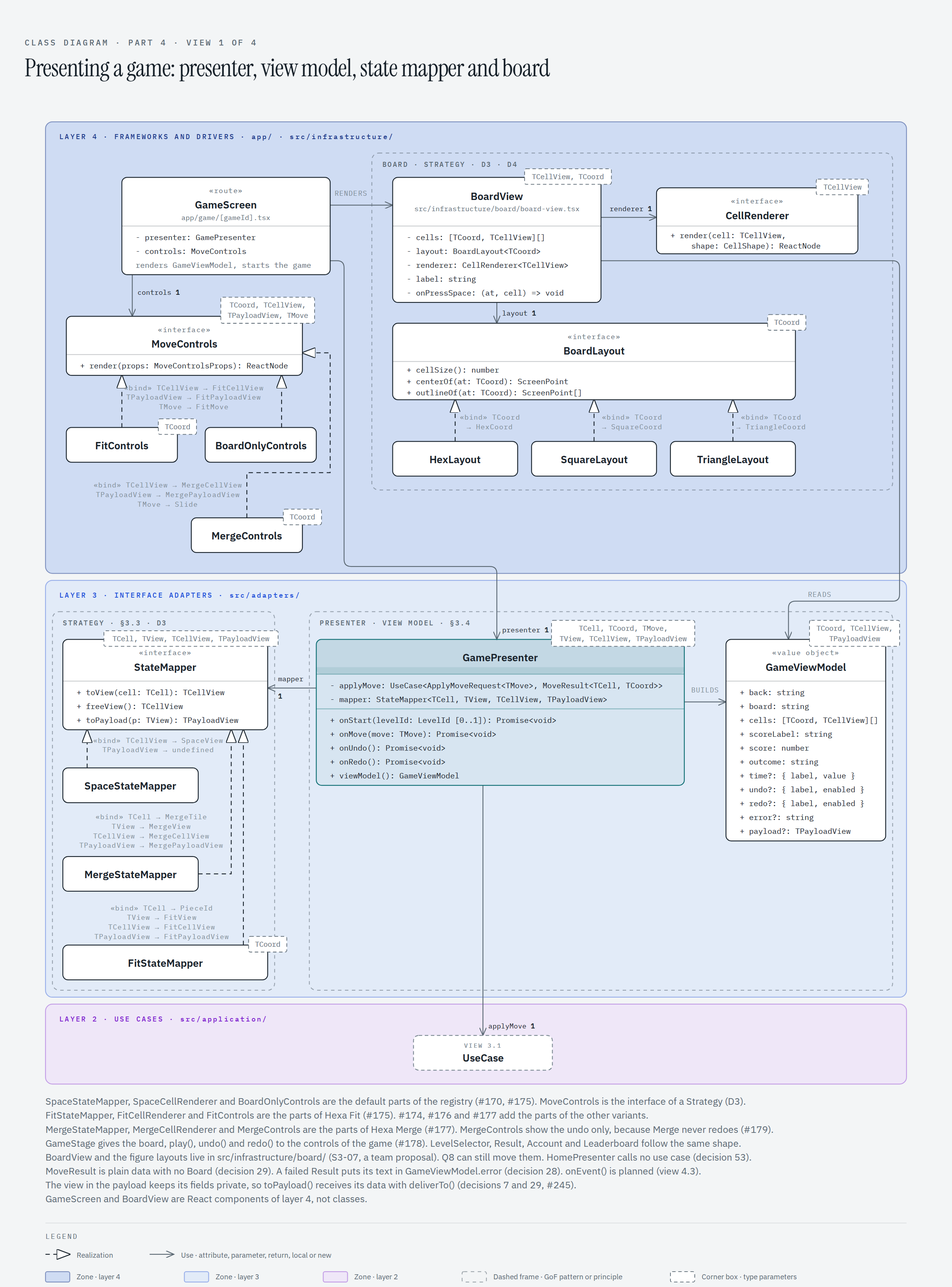
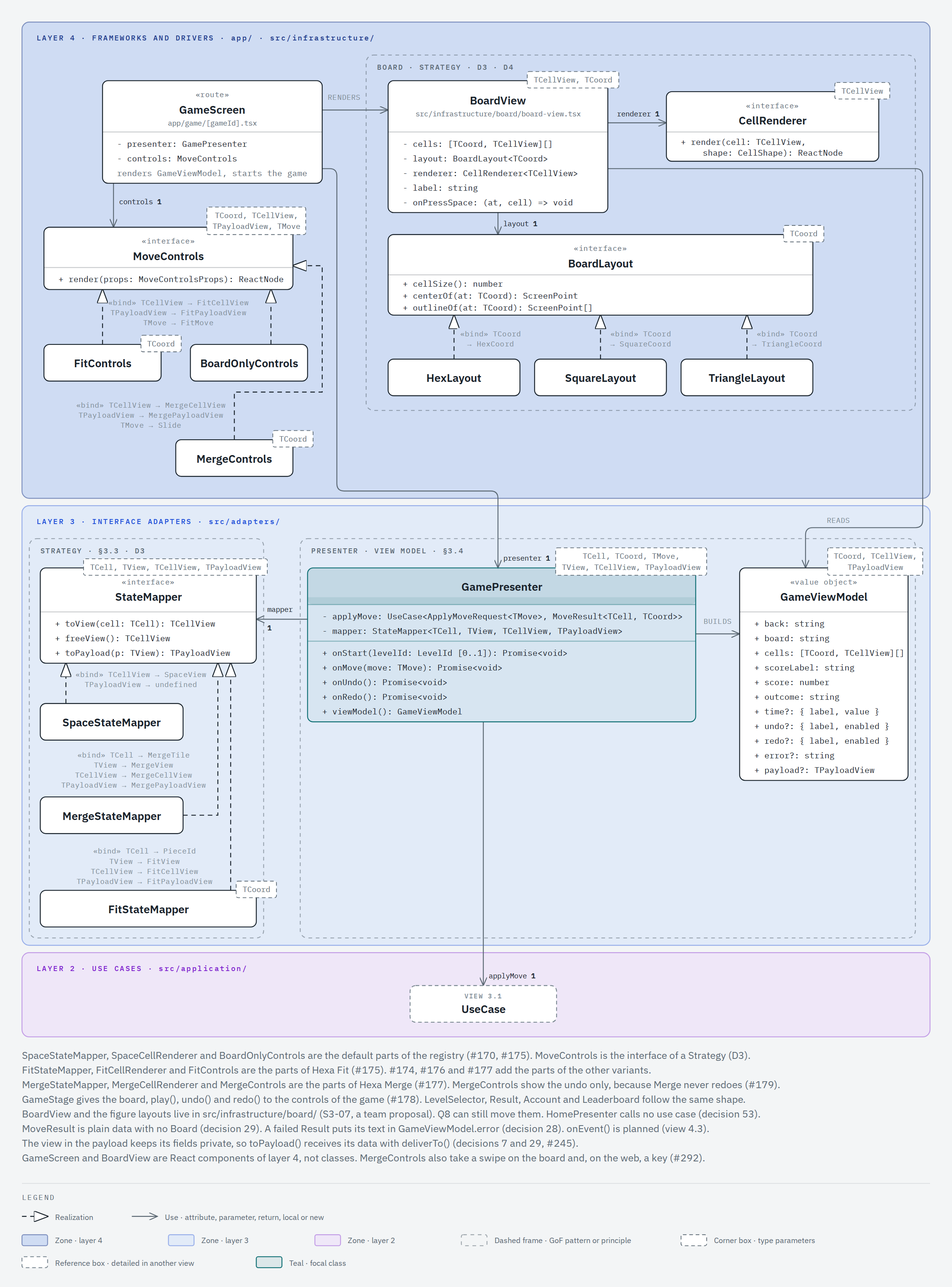
docs(architecture): record the swipe and keys of Merge
Decision 14, view 4.1 and its PNG, the infrastructure README, the AI
usage row and the changelog line.

Refs #292

diff --git a/docs/architecture/classes/views/ad-1-presenter.html b/docs/architecture/classes/views/ad-1-presenter.html
@@ -84,7 +84,8 @@
           MergeStateMapper and MergeControls, the parts of Hexa Merge, implement the same two
           strategies. GamePresenter also undoes and redoes a move through the UseCase port, and
           GameViewModel holds the undo and the redo of a variant with undo, which FitControls show
-          as two buttons. MergeControls show the undo only, because Merge never redoes.
+          as two buttons. MergeControls show the undo only, because Merge never redoes. Since #292
+          MergeControls also play a slide with a swipe on the board and, on the web, with a key.
         </desc>
         <defs>
           <marker
@@ -1757,7 +1758,8 @@
           font-size="11"
           font-family="'IBM Plex Sans', sans-serif"
         >
-          GameScreen and BoardView are React components of layer 4, not classes.
+          GameScreen and BoardView are React components of layer 4, not classes. MergeControls also
+          take a swipe on the board and, on the web, a key (#292).
         </text>
 
         <!-- Legend -->

diff --git a/docs/architecture/classes.md b/docs/architecture/classes.md
@@ -255,7 +255,7 @@ Decisions 41 to 49 planned the units of the domain redesign, and each one names 
 11. **`AccountGateway` (proposal).** `Register` and `Login` call the backend through this port. [layers.md](layers.md) shows it. `ApiAccountGateway` in layer 4 implements it (decision 22).
 12. **`SettingsStore` (proposal).** `UpdateSettings` keeps the mute option and the language through this port. [layers.md](layers.md) shows it. `LocalSettingsStore` implements it over `KeyValueStore`.
 13. **Singleton in the composition root.** Replaced by decision 18 on 2026-10-30. This draft gave `CompositionRoot` a static `instance()`, the classic form of §3.3. Q9 still decides its file.
-14. **State mappers, cell renderers and move controls.** `StateMapper<TCell, TView, TCellView, TPayloadView>` in layer 3, `src/adapters/state-mapper.ts`, turns the plain response into the data of the screen (decision 29, #170). `toView(cell)` gives the view of a space that a cell occupies, `freeView()` gives the view of a free space, and `toPayload(payload)` gives the view of the `payload`. The mapper repeats no rule: each payload field is a value that the variant state already computed. The payload is a closed view, so `toPayload()` receives its data through `deliverTo(receiver)` (decision 7, #245). `GamePresenter` holds one mapper and builds `GameViewModel` (decision 55). `GameViewModel.cells` holds one pair of a coordinate and a cell view for each space of the board, free or occupied: the occupied cells of `MoveResult.cells`, then the coordinates of `MoveResult.freeSpaces`. One `CellRenderer` per variant draws the cell views (D3). Q8 decides where the renderers live and whether the variant factory provides them. The game registry of the composition root ties each game to them (S3-07 in #151, «Propuesta, pendiente del equipo»). Since #165, `CellRenderer<TCellView>` and `BoardView` live in layer 4, `src/infrastructure/board/`, by the same proposal, and Q8 can still move them. `CellRenderer.render(cell: TCellView, shape: CellShape): ReactNode` draws one cell in the box of its shape. Since #296 the renderer draws the outline that the shape gives, so a space shows the figure of its cell: a hexagon, a square, or a triangle that points up or down. `BoardView` takes the pairs of `GameViewModel.cells`, the `BoardLayout` of the figure (decision 17), the `CellRenderer` of the variant and the accessible name of the board, a text of the catalog. It gives each cell a touch box around its inner circle, at the place that the layout gives, and it hands the cell and its `CellShape` to the renderer, which draws the whole outline over that box and lets it take no press (#296). It never calls a method of `Board` or of a photo (#234), and it holds no `if`, `switch`, conditional expression or table lookup, so it never branches on the figure or on the game (gate `test/gates/board-view-gate.test.ts`). `GameRegistry` in `src/infrastructure/game-registry.ts` exists since #162: it maps each `GameId` to a `RegisteredGame`. The entry holds the id, the variant factory and the `ScreenParts` of the game: its state mapper, its cell renderer and `layoutOf(size)`, the layout of its figure for a cell size (#170). The factory keeps its id private and answers `isFor()` (decision 30, #234), and `GameFactory` cannot check the pair, because the engine never branches on a game id (rule `engine-no-variants`). So `registered(gameId, factory, screen, tone, levels?)` is the one place that pairs an id with its factory: it asks the factory with `isFor()`, and a factory of another game throws a `RangeError`. Its type parameters tie the mapper to the cell and the payload of the factory, the layout to its coordinate and the renderer to the cell view of the mapper. Two games with one id throw a `RangeError` too. The registry holds variants with different type arguments, so `RegisteredGame.withFactory(use: FactoryUse<TResult>)` gives the id and the typed factory to one call and keeps the type of the state, and `RegisteredGame.screen` holds the screen parts with their type arguments hidden: a screen only passes the cell views of the mapper to the renderer of the same entry. The composition root gives that id and that factory to `GameFactory`. Until a variant registers its own pair, its entry holds the default pair of #170: `SpaceStateMapper`, whose `SpaceView` tells a free space from an occupied one and which shows no payload, and `SpaceCellRenderer`, which draws a socket for a free space and a stone for an occupied one in the outline of the cell, so it fits every figure (#296). Each «Play … on the game screen» task (#174 to #177) registers the mapper, the renderer and the move controls of its variant in their place. Since #171 each game takes the layout of the board figure of its registry, `BoardFigure.layoutOf(size)`: `HexLayout` on the hexagon, `SquareLayout` on the square and `TriangleLayout` on the triangle (decision 18). `src/infrastructure/registered-games.ts` lists the four games, so a fifth variant adds one line there (step 10 of [EXTENSIBILITY.md](../EXTENSIBILITY.md)). Since #175 the `ScreenParts` of each entry also hold the move controls of the game, `MoveControls<TCoord, TCellView, TPayloadView, TMove>` in layer 4, `src/infrastructure/ui/move-controls.ts`, a Strategy (D3) by the same proposal. `render(props)` gets the last `GameViewModel`, the texts of the screen, the figure layout, `play(move)`, which calls `GamePresenter.onMove()`, `undo()` and `redo()`, which call `GamePresenter.onUndo()` and `onRedo()` (#178), and `board(onPressSpace)`, which draws `BoardView` in its wood frame. So `GameStage` names no variant, and the controls lay out the board with their own parts and keep their own state. `BoardView` takes `onPressSpace(at, cell)` and hands it the coordinate and the cell view of a pressed space; it reads no cell and still holds no branch. `BoardOnlyControls` is the default: it draws the board alone, and a press on a space plays nothing. Hexa Fit registers its own parts (#175). `FitStateMapper<TCoord>` in `src/adapters/fit-state-mapper.ts` maps a `PieceId` to a `FitCellView` with the text id of the piece, a free space to a `FitCellView` with no piece, and the `FitView` to a `FitPayloadView`: each tray piece with its cells at each rotation step of the topology, the ids of the placed pieces and the move count. It receives the text of a `PieceId`, the data of the `FitView` and the number of the `Moves` with `deliverTo()`, and the topology of the figure turns each tray piece, so it repeats no rule and the screen calculates no coordinate. `FitCellRenderer` in `src/infrastructure/board/fit-cell-renderer.tsx` draws a free space as the socket of `SpaceCellRenderer` and a covered space as a stone in the color of its piece, in the outline of the cell. The tray draws each piece through `BoardView` with the same renderer parts, so a tray piece shows the outline of the figure too (#296). `FitControls<TCoord>` in `src/infrastructure/ui/fit-controls.tsx` show what to do next, the move count, the tray, the rotate button and, since #178, the undo and the redo buttons of the view model, each disabled while no move can go back or forward. The player picks a tray piece, turns it by the rotation step of the topology (a piece never mirrors, C7) and presses a free space: the controls play a `PlaceFitPiece` that puts the origin of the piece on that space, and the tray marks that origin. A press on a space of a placed piece plays a `RemoveFitPiece`. The rules decide each move, so a piece that does not fit gives the rejected move text and stays chosen. `registeredGames()` gives the Fit parts with `fitScreen(figure)`; the other games keep the default parts until #174, #176 and #177. Hexa Merge registers its own parts since #177. `MergeStateMapper` in `src/adapters/merge-state-mapper.ts` maps a tile to a `MergeCellView` with its number, which `MergeTile.deliverTo()` gives, a free space to a view with no number, and the `MergeView` to a `MergePayloadView` with the target flag, which `MergeView.deliverTo()` gives. `MergeCellRenderer` in `src/infrastructure/board/merge-cell-renderer.tsx` draws a free space as the socket of `SpaceCellRenderer` and a tile as a stone in the outline of the cell, in the tone of its value with its number on the circle inside the cell (#296). `MergeControls<TCoord>` in `src/infrastructure/ui/merge-controls.tsx` draw the board and, below it, one slide button for each way of the figure, and a press on a space plays nothing. `slideWays()` in `src/infrastructure/board/slide-ways.ts` gives one `Slide` for each axis and sense of the topology, with the way of its tiles on the screen of the figure: from the last to the first cell of its longest line, in the order of `Slide.fromLeadingEdge()`. So the hexagon has six slide buttons and the square four, and each button names its way with a compass text and plays its `Slide`. When the payload says that a merge made the target tile, a prompt offers to continue, as in 2048 (A3). The rules never answer a victory for Merge, so the prompt reads the flag of the payload, not the outcome. The flag stays true while the game goes on, so the prompt opens once. Since #179 an undo button below the ring takes back the last slide through `undo()`, and it takes no press while no slide can go back. The controls draw no redo button, because Merge never redoes (decision 4). An undo of the slide that made the target gives the flag back as false, and the controls forget that the player continued: the game is again before its first target, so the prompt opens again when a merge makes the target again. `registeredGames()` gives the Merge parts with `mergeScreen(figure)`.
+14. **State mappers, cell renderers and move controls.** `StateMapper<TCell, TView, TCellView, TPayloadView>` in layer 3, `src/adapters/state-mapper.ts`, turns the plain response into the data of the screen (decision 29, #170). `toView(cell)` gives the view of a space that a cell occupies, `freeView()` gives the view of a free space, and `toPayload(payload)` gives the view of the `payload`. The mapper repeats no rule: each payload field is a value that the variant state already computed. The payload is a closed view, so `toPayload()` receives its data through `deliverTo(receiver)` (decision 7, #245). `GamePresenter` holds one mapper and builds `GameViewModel` (decision 55). `GameViewModel.cells` holds one pair of a coordinate and a cell view for each space of the board, free or occupied: the occupied cells of `MoveResult.cells`, then the coordinates of `MoveResult.freeSpaces`. One `CellRenderer` per variant draws the cell views (D3). Q8 decides where the renderers live and whether the variant factory provides them. The game registry of the composition root ties each game to them (S3-07 in #151, «Propuesta, pendiente del equipo»). Since #165, `CellRenderer<TCellView>` and `BoardView` live in layer 4, `src/infrastructure/board/`, by the same proposal, and Q8 can still move them. `CellRenderer.render(cell: TCellView, shape: CellShape): ReactNode` draws one cell in the box of its shape. Since #296 the renderer draws the outline that the shape gives, so a space shows the figure of its cell: a hexagon, a square, or a triangle that points up or down. `BoardView` takes the pairs of `GameViewModel.cells`, the `BoardLayout` of the figure (decision 17), the `CellRenderer` of the variant and the accessible name of the board, a text of the catalog. It gives each cell a touch box around its inner circle, at the place that the layout gives, and it hands the cell and its `CellShape` to the renderer, which draws the whole outline over that box and lets it take no press (#296). It never calls a method of `Board` or of a photo (#234), and it holds no `if`, `switch`, conditional expression or table lookup, so it never branches on the figure or on the game (gate `test/gates/board-view-gate.test.ts`). `GameRegistry` in `src/infrastructure/game-registry.ts` exists since #162: it maps each `GameId` to a `RegisteredGame`. The entry holds the id, the variant factory and the `ScreenParts` of the game: its state mapper, its cell renderer and `layoutOf(size)`, the layout of its figure for a cell size (#170). The factory keeps its id private and answers `isFor()` (decision 30, #234), and `GameFactory` cannot check the pair, because the engine never branches on a game id (rule `engine-no-variants`). So `registered(gameId, factory, screen, tone, levels?)` is the one place that pairs an id with its factory: it asks the factory with `isFor()`, and a factory of another game throws a `RangeError`. Its type parameters tie the mapper to the cell and the payload of the factory, the layout to its coordinate and the renderer to the cell view of the mapper. Two games with one id throw a `RangeError` too. The registry holds variants with different type arguments, so `RegisteredGame.withFactory(use: FactoryUse<TResult>)` gives the id and the typed factory to one call and keeps the type of the state, and `RegisteredGame.screen` holds the screen parts with their type arguments hidden: a screen only passes the cell views of the mapper to the renderer of the same entry. The composition root gives that id and that factory to `GameFactory`. Until a variant registers its own pair, its entry holds the default pair of #170: `SpaceStateMapper`, whose `SpaceView` tells a free space from an occupied one and which shows no payload, and `SpaceCellRenderer`, which draws a socket for a free space and a stone for an occupied one in the outline of the cell, so it fits every figure (#296). Each «Play … on the game screen» task (#174 to #177) registers the mapper, the renderer and the move controls of its variant in their place. Since #171 each game takes the layout of the board figure of its registry, `BoardFigure.layoutOf(size)`: `HexLayout` on the hexagon, `SquareLayout` on the square and `TriangleLayout` on the triangle (decision 18). `src/infrastructure/registered-games.ts` lists the four games, so a fifth variant adds one line there (step 10 of [EXTENSIBILITY.md](../EXTENSIBILITY.md)). Since #175 the `ScreenParts` of each entry also hold the move controls of the game, `MoveControls<TCoord, TCellView, TPayloadView, TMove>` in layer 4, `src/infrastructure/ui/move-controls.ts`, a Strategy (D3) by the same proposal. `render(props)` gets the last `GameViewModel`, the texts of the screen, the figure layout, `play(move)`, which calls `GamePresenter.onMove()`, `undo()` and `redo()`, which call `GamePresenter.onUndo()` and `onRedo()` (#178), and `board(onPressSpace)`, which draws `BoardView` in its wood frame. So `GameStage` names no variant, and the controls lay out the board with their own parts and keep their own state. `BoardView` takes `onPressSpace(at, cell)` and hands it the coordinate and the cell view of a pressed space; it reads no cell and still holds no branch. `BoardOnlyControls` is the default: it draws the board alone, and a press on a space plays nothing. Hexa Fit registers its own parts (#175). `FitStateMapper<TCoord>` in `src/adapters/fit-state-mapper.ts` maps a `PieceId` to a `FitCellView` with the text id of the piece, a free space to a `FitCellView` with no piece, and the `FitView` to a `FitPayloadView`: each tray piece with its cells at each rotation step of the topology, the ids of the placed pieces and the move count. It receives the text of a `PieceId`, the data of the `FitView` and the number of the `Moves` with `deliverTo()`, and the topology of the figure turns each tray piece, so it repeats no rule and the screen calculates no coordinate. `FitCellRenderer` in `src/infrastructure/board/fit-cell-renderer.tsx` draws a free space as the socket of `SpaceCellRenderer` and a covered space as a stone in the color of its piece, in the outline of the cell. The tray draws each piece through `BoardView` with the same renderer parts, so a tray piece shows the outline of the figure too (#296). `FitControls<TCoord>` in `src/infrastructure/ui/fit-controls.tsx` show what to do next, the move count, the tray, the rotate button and, since #178, the undo and the redo buttons of the view model, each disabled while no move can go back or forward. The player picks a tray piece, turns it by the rotation step of the topology (a piece never mirrors, C7) and presses a free space: the controls play a `PlaceFitPiece` that puts the origin of the piece on that space, and the tray marks that origin. A press on a space of a placed piece plays a `RemoveFitPiece`. The rules decide each move, so a piece that does not fit gives the rejected move text and stays chosen. `registeredGames()` gives the Fit parts with `fitScreen(figure)`; the other games keep the default parts until #174, #176 and #177. Hexa Merge registers its own parts since #177. `MergeStateMapper` in `src/adapters/merge-state-mapper.ts` maps a tile to a `MergeCellView` with its number, which `MergeTile.deliverTo()` gives, a free space to a view with no number, and the `MergeView` to a `MergePayloadView` with the target flag, which `MergeView.deliverTo()` gives. `MergeCellRenderer` in `src/infrastructure/board/merge-cell-renderer.tsx` draws a free space as the socket of `SpaceCellRenderer` and a tile as a stone in the outline of the cell, in the tone of its value with its number on the circle inside the cell (#296). `MergeControls<TCoord>` in `src/infrastructure/ui/merge-controls.tsx` draw the board and, below it, one slide button for each way of the figure, and a press on a space plays nothing. `slideWays()` in `src/infrastructure/board/slide-ways.ts` gives one `Slide` for each axis and sense of the topology, with the way of its tiles on the screen of the figure: from the last to the first cell of its longest line, in the order of `Slide.fromLeadingEdge()`. So the hexagon has six slide buttons and the square four, and each button names its way with a compass text and plays its `Slide`. When the payload says that a merge made the target tile, a prompt offers to continue, as in 2048 (A3). The rules never answer a victory for Merge, so the prompt reads the flag of the payload, not the outcome. The flag stays true while the game goes on, so the prompt opens once. Since #179 an undo button below the ring takes back the last slide through `undo()`, and it takes no press while no slide can go back. The controls draw no redo button, because Merge never redoes (decision 4). An undo of the slide that made the target gives the flag back as false, and the controls forget that the player continued: the game is again before its first target, so the prompt opens again when a merge makes the target again. `registeredGames()` gives the Merge parts with `mergeScreen(figure)`. Since #292 a swipe anywhere on the board plays a slide too, and on the web the arrow keys and the keys Q, E, Z and C play one. `nearestWay(ways, angle)` in `slide-ways.ts` gives the way whose angle on the screen is nearest to an angle, the first of two equally near ways clockwise from the north, so each figure answers with its own ways and no code branches on the figure. `MergeControls` wrap the board in a pan gesture of `react-native-gesture-handler` 3.3: when the finger lifts, `swipedWay(ways, dx, dy)` in `src/infrastructure/ui/slide-input.ts` plays the way nearest to the angle of the swipe, and a swipe shorter than 24 px plays nothing. The gesture area holds the board only, so a press that starts on a slide button or on the undo button is a press, not a swipe. `useSlideKeys(ways, play)` in the same file listens to the key events of the page only when `Platform.OS` is `web`: the right arrow has 0°, the left arrow 180°, the up arrow -90°, the down arrow 90°, E -60°, Q -120°, Z 120° and C 60°, and a key that the system repeats plays nothing more. Only layer 4 reads the platform, and no presenter or use case knows the input. The ring of slide buttons stays, so a screen reader can still play. `app/_layout.tsx` wraps the app in `GestureHandlerRootView`, which the gesture needs.
 15. **Builder on the levels and on the board.** The statement puts Builder on the levels of Fit and Sort (§3.3), so `ILevelBuilder`, `FitLevelBuilder` and `SortLevelBuilder` stay. A builder builds an object made of parts, never a flat record, and each step returns the builder. Since #166 `ILevelBuilder<TLevel>` in `src/domain/engine/level-builder.ts` has two steps and `build()`: `withTopology(topology: TopologyId)` and `withSection(section: unknown)`. `LevelDefinition` is the Director of the pattern: `buildWith(builder)` gives the builder the topology of the level file, then the section of the game, and then it asks for the level (decision 24). `FitLevelBuilder<TCoord>` in `src/domain/variants/hexa-fit/fit-level-builder.ts` holds the `GeometryFactory` that it receives. `withTopology()` refuses a topology of another family with a `RangeError` that carries the topology and the geometry as its `cause`. So the builder reads each coordinate of the file through the geometry that the topology of the level names: `createCoord()` turns each list of numbers into a `TCoord` (decision 17). `withSection()` adds the figure, the pieces, the witness and the stars, each through its own private step. It checks at runtime each field that it reads, because a level file has no compile-time types, and a value that it refuses goes into the error as its `cause`. `build()` checks A5: the areas of the pieces add up to the area of the figure, and the witness places each piece once and covers each cell of the figure once. Then it creates the level through `FitLevel.of()`, so a level with two pieces of one id cannot exist (decision 46). The level keeps no witness: only `build()` reads it. Since #167 `SortLevelBuilder<TCoord>` in `src/domain/variants/hexa-sort/sort-level-builder.ts` has the same two steps. It holds the `GeometryFactory` that it receives, and `withTopology()` refuses a topology of another family with the same kind of `RangeError`, because the topology of the level says which board the radius gives. `withSection()` checks the section at runtime and turns each number and each text of the file into its value object: the radius r into the `RegionSize` r + 1, the goals into a `GoalCount`, the seed into a `Seed`, each color name into a `Color`, each stack into a `ColorStack` and each star into a `SortStarThreshold`. The hex region of size n holds the cells at distance n - 1 or less from its center, so the radius 2 gives the 19 cells of the format. The square and triangle regions grow from a corner, so on those topologies the radius r gives a region of r + 1 cells per side. A source with a seed and stacks, or with neither, throws a `RangeError`. `build()` creates the level through `SortLevel.seeded()` or `SortLevel.fixed()`, so the level checks its own data, and `withStars()` gives it the thresholds of the file (decision 47). Only `build()` returns the level. In class on 2026-10-30 the professor put a builder on the board too. It builds the logical structure of the board and nothing more. In DDD terms, this builder is the factory of the board. So `BoardBuilder` in layer 1 is a Builder and the DDD factory of the board. It holds a `GeometryFactory` and has two construction paths: `withRegion(size)` for Lines, Sort and Merge, and `withFigure(figure)` for the Fit figure (§1.2). `SortFactory` asks it for the board region of the level, `FitFactory` asks it for the figure board, and `LinesFactory` and `MergeFactory` use it with no level. Reasons: the two construction paths, the square, triangle and 3D rows of §8 (D4), and the generic coordinate of decision 16. Team decision D9. Views 5 and 6.
 16. **A generic engine: the engine asks the topology for every coordinate calculation.** The engine names carry no geometry: `Board<TCell, TCoord, TAxis>` and `GridTopology<TCoord, TAxis, TDirection>`. `TAxis` and `TDirection` are the axis class and the direction class of one topology (issues #86 and #207, decision 45). Each one is a value object with a closed set of instances: `HexAxis` and `HexDirection`, `SquareAxis` and `SquareDirection`, `TriangleAxis` and `TriangleDirection`. The bounds are the engine interfaces `GridAxis` and `GridDirection`, which hold only `equals()`, and each parameter defaults to its bound, so `GridTopology<TCoord>` is a topology with any axis and any direction and `Board<TCell, TCoord>` is a board with any axis. An axis steps along itself from a cell with `forward()` and `backward()`, and a direction gives the neighbor of a cell with `neighborOf()`, so a topology keeps no table of steps by name: `line()` and `neighbor()` ask the axis or the direction. `HexCoord` and `HexTopology` are only the hexagonal family (decision 17). `Board` is the `HexBoard<TCell>` of statement §3.1, which calls its names «orientativos». `TCoord` reaches `Piece`, `ShapeNode`, `BoardShape`, `BoardState` and the moves (`PlacePiece.at`, `PlaceStack.at`). `GameEngine` declares `TCoord` next to `TCell`, `TMove` and `TState`, and bounds `TState` by `BoardState<TCell, TCoord> & Cloneable<TState>` in its template box. `IVariantFactory`, `GameRepository` and the game use cases declare `TCoord` too, because their members name `Board<TCell, TCoord>`, `Piece<TCell, TCoord>` or `MoveResult<TCell, TCoord>`. `IGameRules` and `BaseGameRules` take two type parameters, `TMove` and `TState`: none of their members names a cell or a coordinate. The variant classes drop the `Hexa` prefix, for example `LinesRules` and `FitFactory`. `GridTopology` owns `rotate()`, `translate()` and `region()`, and the engine reaches a coordinate only through it. Since #206 the work has two owners (decision 44). A coordinate is a value object that does the calculations on its own values: it compares itself with `equals()`, and it gives its sum, its opposite, its distance, its turn of one step and its text. The topology does what belongs to the grid: the key, the neighbors, the directions and the axes, the lines, the rings and the regions, and the count of steps of a rotation. Adding two coordinates one component at a time works for hexagons and squares, so `HexCoord` and `SquareCoord` have `plus()`. It fails for triangles, because the parity of column plus row decides whether a triangle points up or down, so `TriangleCoord` has no `plus()`: it has `translated(offset)`, which counts lattice cells. With this rule, triangular cells and a 3D board (§8) each mean one more coordinate type and one more topology, plus new level data. In class on 2026-10-30 the professor asked for one generic board for hexagons, triangles and squares. The square topology cannot catch the parity coupling, because a square adds coordinates the same way a hexagon does. Issue #69 adds an engine test that translates a piece by an odd offset on the triangle topology. The type system also enforces the rule of issue #69. `TCoord` has no bound, so engine code cannot read a component of a coordinate and cannot call an operation of one: `c.q` and `c.equals()` do not compile there. Engine code must ask the topology for every calculation, and it compares two coordinates through `GridTopology.key()`. Issue #206 decided to keep `TCoord` without a bound. Team decision D10. Views 1, 2 and 6.
 17. **A geometry family (Abstract Factory).** `GeometryFactory<TCoord>` in layer 1 creates the coordinate, the topology and the piece shapes of one geometry. `HexGeometry`, `SquareGeometry` and `TriangleGeometry` are the real families, and the engine tests run on the square and triangle families (D4, APP-NFR-13). `BoardBuilder`, the level builders and each `IVariantFactory` receive it by composition, so no class exists per game and geometry. The factory gives the parts, and the Builder assembles them. Screen layout per geometry stays in layer 4, outside the domain factory. Since #165 it is `BoardLayout<TCoord>` in `src/infrastructure/board/`, one Strategy per figure: `HexLayout`, `SquareLayout` and `TriangleLayout`. `cellSize(): number` gives the diameter of the largest circle inside a cell, and `centerOf(at: TCoord): ScreenPoint` gives the center of that circle. Since #296 `outlineOf(at: TCoord): readonly ScreenPoint[]` gives the corners of the cell around that center: six for the hexagon, which points up, four for the square, and three for the triangle, which points up or down as `TriangleCoord.isUp()` says. Two neighbor outlines share one whole side, so the cells touch with no gap and no overlap (test `test/infrastructure/board/board-layouts.test.ts`). `cellBoxOf(layout, at)` turns the outline into a `CellShape`: the box that holds the outline, the corners and the center of the circle in that box, and the diameter of the circle. `BoardView` and `fittedCellSize()` read the box, so the frame of the board holds every whole outline, and the renderers draw the corners with `react-native-svg`. The touch box of a cell stays the square of the side `cellSize()` around its inner circle: it holds the center of its cell and no center of a neighbor, so a press never reaches a neighbor, while the box of a triangle outline covers half of each side neighbor (test `test/infrastructure/board/board-view.test.tsx`). Until #296 the contract gave only the circle, and decision 17 said that a renderer that draws inside the circle fits every figure. That was true for the place of a cell but not for its look: every figure showed round cells, and the player saw no change of figure (APP-FR-16). So the layout of the figure now gives the outline, and `BoardView` and the renderers still hold no branch on the figure. An SVG polygon draws the three outlines and an empty outline alike; native views cannot draw the outline of a hexagon or of a triangle that points down. A layout reads the two values of a coordinate through its `deliverTo(receiver)` (decision 44). View 4.1. Issue #153 adds `GeometryFactory`, `HexGeometry`, `HexTopology`, `HexCoord` and `BoardBuilder` to `src/domain/engine/`. Since #206 `HexCoord`, `SquareCoord` and `TriangleCoord` are classes with private values (decision 44), and view 6 draws the three. Issue #160 adds `SquareGeometry`, `SquareTopology`, `TriangleGeometry` and `TriangleTopology`, which replace the test doubles. It also adds `GridTopology.neighbor(c: TCoord, direction: TDirection): TCoord`, which view 2 does not draw, so each topology rejects a direction that it lacks at runtime. Issue #161 gives the family to the four variant factories: each one keeps a `GeometryFactory<TCoord>` and builds its board with `BoardBuilder`. Since #166 `FitLevelBuilder` keeps one too, and turns each coordinate of a level file into a `TCoord` with `createCoord()` (decision 15). `GeometryFactory` keeps the `TopologyId` of its family private, and `isOfFamily(id)` tells whether the geometry is of a family (#234). Since #207 `TopologyId` is a value object with the closed set `hex`, `square` and `triangle` (decision 45), and view 6 draws that use with the verb `ISOFFAMILY()`. `MergeFactory` binds `TAxis` to `GridAxis`, because the family contract gives a topology with any axis. `FitLevel` adds `topology`, and `FitFactory` throws a `RangeError` for a level of another family (S3-08 in #151, «Propuesta, pendiente del equipo»). Team decision D11. View 6 and view 3 of [extensibility.md](extensibility.md).

diff --git a/AI_USAGE.md b/AI_USAGE.md
@@ -176,6 +176,7 @@ TODO: add one entry per task: date, task, tool, prompt summary, what was kept an
 | 2026-11-17 | Regenerate the API types after hexablock-api#145                                                                  | Claude Code | Claude Code with Claude Opus 5.5 ran hexablock-api `main` locally, ran `pnpm api:generate` and `pnpm contract:verify` against it, and committed the new 403 answer of `PUT /levels` in `schema.d.ts`.                                                                                                                                                                                                                                                                                                                                                                                                                                                                                                                                                                                                                                                                                                                                                                                                                                                                                                                                                                                                                                                                                                                                                                                                                                                                                                                                                                                                                                                                      | Pending team review                                                                                                                                                                              |
 | 2026-11-17 | Make the Fit tray pieces fill their face (#299)                                                                   | Claude Code | Claude Code with Claude Opus 5.5, as its `odd-worker` writer, changed the limits of the drawing of a tray piece in `fit-controls.tsx`: the face stays 60 wide, the drawing takes up to 44 in width and in height, with a margin of 6 inside the border, and its largest cell is also 44, so a single cell fills the face. `fittedCellSize()` fits only the width, so the tray also limits the cell size by the height of the drawing. The component test that reads every piece of every bundled Fit level at each rotation step was seen red first. The parent session chose to read the widest piece from the bundled levels, and ran the review.                                                                                                                                                                                                                                                                                                                                                                                                                                                                                                                                                                                                                                                                                                                                                                                                                                                                                                                                                                                                                        | Pending team review                                                                                                                                                                              |
 | 2026-11-17 | Keep the color of each game on the map of every figure (#298)                                                     | Claude Code | Claude Code with Claude Opus 5.5, as its `odd-worker` writer, gave each entry of the game registry a required `tone`, the world colors of its game, and made the map stone read it from the registry of the figure through `useGameTones()` in place of `worldTone(position)`. A first draft kept a table of game ids in `theme.ts`; the parent session rejected it, because it listed the games in a second place and a fifth game crashed the map. The side of a world still follows its place in the list, so the path keeps its zig-zag when Fit is absent. The UI test that opens the map of the hexagon and of the square and compares the colors of Hexa Sort and Hexa Merge was seen red first. The parent session chose to declare the color in the registry entry and to keep the side by position, and ran the review.                                                                                                                                                                                                                                                                                                                                                                                                                                                                                                                                                                                                                                                                                                                                                                                                                                          | Pending team review                                                                                                                                                                              |
+| 2026-11-17 | Slide Merge with a swipe and with the keyboard on the web (#292)                                                  | Claude Code | Claude Code with Claude Opus 5.5, as its `odd-worker` writer, wrote the tests first and saw them fail, then added a pan gesture of `react-native-gesture-handler` around the Merge board, `nearestWay()`, `swipedWay()` with a threshold of 24 px and `useSlideKeys()` for the arrow keys and Q, E, Z and C on the web only, wrapped the app in `GestureHandlerRootView`, and gave Jest the setup of the gesture library. The keys were tested with simulated key events, because a browser test needs #287.                                                                                                                                                                                                                                                                                                                                                                                                                                                                                                                                                                                                                                                                                                                                                                                                                                                                                                                                                                                                                                                                                                                                                               | Pending team review                                                                                                                                                                              |
 
 ## Critical Evaluation
 

diff --git a/src/infrastructure/README.md b/src/infrastructure/README.md
@@ -6,4 +6,4 @@ Frameworks and drivers (storage, HTTP client, system clock, seeded random source
 
 `board/` holds the React Native board components (S3-07 in #151, Q8, issue #165). `BoardView` draws the pairs of a coordinate and a cell view of `GameViewModel` on any figure, with the accessible name of the board. `BoardLayout` is the screen layout of a figure, and `HexLayout`, `SquareLayout` and `TriangleLayout` implement it. `CellRenderer` is the interface of the cell renderer of a variant, and `SpaceCellRenderer` is the default renderer, which tells a free space from an occupied one (#170). `FitCellRenderer` draws a space of Hexa Fit: a socket, or a stone in the color of its piece (#175). `MergeCellRenderer` draws a Merge tile as a stone in the tone of its value with its number (#177). `slideWays()` gives the slides of a Merge board with the way of each one on the screen of the figure. `BoardView` hands a press on a space to the move controls of the game (#175). `fittedCellSize()` gives the widest cell at which a board fits the width of the screen.
 
-`ui/` holds the parts that the screens share (#169): the design tokens of the team prototype in `theme.ts`, the scene of sky and grass, the hex stone, the wood sign and the lip button, and `useHomePresenter()`, which builds `HomePresenter` from the game registry of the root. `GameStage` is the view of the game screen: it keeps `GamePresenter`, starts the game and shows the board, the score and the outcome. `useGameSession()` builds the presenter of one game from the use cases and the screen parts of the root (#170). `MoveControls` is the strategy of the move controls of one game: the stage gives it the board and `play()`, which calls `GamePresenter.onMove()`. `BoardOnlyControls` is the default, and `FitControls` play Hexa Fit with the tray, the rotate button and a press on a space (#175). `MergeControls` play Hexa Merge with one slide button for each way of the figure, and with the prompt that offers to continue when a merge makes the target tile (#177). `useAchievements()` builds `AchievementsPresenter` from the root and gives the view model of the achievements screen (#188). Since #179 they also show an undo button below the slide buttons, which takes back the last slide.
+`ui/` holds the parts that the screens share (#169): the design tokens of the team prototype in `theme.ts`, the scene of sky and grass, the hex stone, the wood sign and the lip button, and `useHomePresenter()`, which builds `HomePresenter` from the game registry of the root. `GameStage` is the view of the game screen: it keeps `GamePresenter`, starts the game and shows the board, the score and the outcome. `useGameSession()` builds the presenter of one game from the use cases and the screen parts of the root (#170). `MoveControls` is the strategy of the move controls of one game: the stage gives it the board and `play()`, which calls `GamePresenter.onMove()`. `BoardOnlyControls` is the default, and `FitControls` play Hexa Fit with the tray, the rotate button and a press on a space (#175). `MergeControls` play Hexa Merge with one slide button for each way of the figure, and with the prompt that offers to continue when a merge makes the target tile (#177). Since #292 a swipe anywhere on the board plays the way nearest to its angle, and a swipe shorter than 24 px plays nothing. On the web the arrow keys and the keys Q, E, Z and C play the way nearest to the angle of the key: a repeated key plays once, and a key with Ctrl, Meta or Alt plays nothing. `slide-input.ts` holds `swipedWay()` and `useSlideKeys()`, and only this layer reads the platform. The swipe area holds the board only, so a press on a slide button or on the undo button stays a press, and the ring of buttons stays for the screen reader. `app/_layout.tsx` wraps the app in `GestureHandlerRootView`, which the gesture needs. `useAchievements()` builds `AchievementsPresenter` from the root and gives the view model of the achievements screen (#188). Since #179 they also show an undo button below the slide buttons, which takes back the last slide.

diff --git a/CHANGELOG.md b/CHANGELOG.md
@@ -6,6 +6,10 @@ Each sprint of [`docs/ROADMAP.md`](docs/ROADMAP.md) closes with a version sectio
 
 ## [Unreleased]
 
+### Added
+
+- Slide the tiles of Hexa Merge with a swipe on the board, and with the keyboard on the web ([#292](https://github.com/Hexablock-Suite/hexablock-app/issues/292), classes.md decision 14). A swipe plays the way of the figure whose angle is nearest to its own, and a swipe shorter than 24 px plays nothing. On the web the arrow keys and the keys Q, E, Z and C play the way nearest to the angle of the key, and a repeated key plays once. A press that starts on a slide button or on the undo button stays a press, and the ring of slide buttons stays for the screen reader. `app/_layout.tsx` wraps the app in `GestureHandlerRootView` of `react-native-gesture-handler`, already a dependency. View 4.1 shows the change, and its PNG image is exported again.
+
 ### Changed
 
 - Regenerate `src/infrastructure/api/schema.d.ts` against hexablock-api `main`: `PUT /levels` now answers 403 when the account is not a level editor (Hexablock-Suite/hexablock-api#145). The pact still passes.
